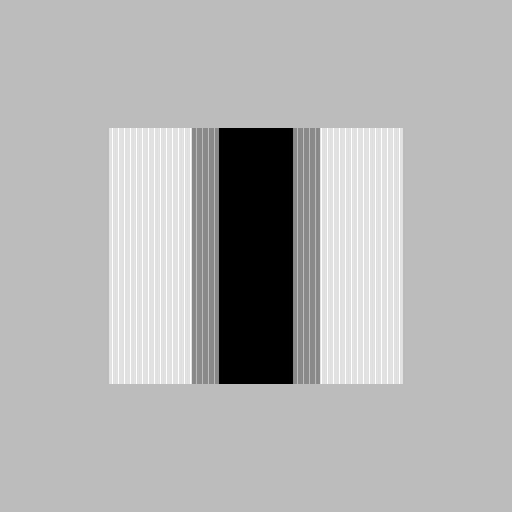
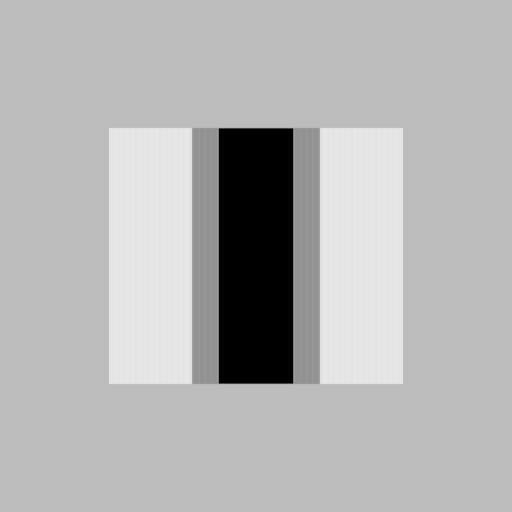
Add energy-conserving bilinear photon splatting

Changed region(s): [[0.5625, 0.25, 0.7812, 0.75], [0.2188, 0.25, 0.4375, 0.75]]

diff --git a/src/caustics.rs b/src/caustics.rs
@@ -5,6 +5,7 @@ use crate::{
     framebuffer::Framebuffer,
     ray::Ray,
     scene::{Scene, take_photon},
+    utils::bilinear_weights,
 };
 use nalgebra::Vector3;
 use std::error::Error;
@@ -15,13 +16,10 @@ const GROUND_MAX: f64 = 2.0;
 const LIGHT_HEIGHT: f64 = 3.0;
 const UNBLOCKED_BRIGHTNESS: f64 = 0.5;
 
-/// 将地面世界坐标映射到输出图片；x、y 均采用 [-2, 2) 米的半开区间。
-/// 世界 +x 朝图片右侧，+y 朝图片上方；z 只检查是否有限。
-pub fn ground_to_pixel(
-    position: Vector3<f64>,
-    width: usize,
-    height: usize,
-) -> Option<(usize, usize)> {
+/// 将地面世界坐标映射为连续像素坐标；世界 x、y 采用 [-2, 2) 米的半开区间。
+/// 世界 +x 朝图片右侧，+y 朝图片上方；整数输出坐标是像素中心，边界在 -0.5。
+/// 保留小数位置供双线性分配使用；z 只检查是否有限。
+pub fn ground_to_pixel(position: Vector3<f64>, width: usize, height: usize) -> Option<(f64, f64)> {
     if width == 0
         || height == 0
         || !position.iter().all(|v| v.is_finite())
@@ -34,10 +32,9 @@ pub fn ground_to_pixel(
     let span = GROUND_MAX - GROUND_MIN;
     let u = (position.x - GROUND_MIN) / span;
     let v = (position.y - GROUND_MIN) / span;
-    // 输入已在区域内；min 仅防止贴近上边界时浮点舍入到 width/height。
-    let x = ((u * width as f64).floor() as usize).min(width - 1);
-    let y_from_bottom = ((v * height as f64).floor() as usize).min(height - 1);
-    Some((x, height - 1 - y_from_bottom))
+    let x = u * width as f64 - 0.5;
+    let y = (1.0 - v) * height as f64 - 0.5;
+    Some((x, y))
 }
 
 /// Day 2 的直接命中灰度图；未先命中地面的光线被遮挡，不继续追踪。
@@ -122,10 +119,17 @@ fn render_landing_points(
             let Some(position) = landing_point(ray) else {
                 continue;
             };
-            if let Some((x, y)) = ground_to_pixel(position, scene.width, scene.height)
-                && !framebuffer.accumulate(x, y, contribution)
-            {
-                return Err("地面像素累积失败".into());
+            if let Some((x, y)) = ground_to_pixel(position, scene.width, scene.height) {
+                let neighbors = bilinear_weights(x, y, scene.width, scene.height)
+                    .ok_or("双线性权重计算失败")?;
+                // 同一条光子的 XYZ 分成四份，权重和为 1；在 sRGB 编码之前累积。
+                for (pixel_x, pixel_y, weight) in neighbors {
+                    if weight > 0.0
+                        && !framebuffer.accumulate(pixel_x, pixel_y, contribution * weight)
+                    {
+                        return Err("地面像素累积失败".into());
+                    }
+                }
             }
         }
     }
@@ -140,13 +144,23 @@ mod tests {
     #[test]
     fn world_coordinates_map_to_non_square_image_with_y_flipped() {
         for (position, expected) in [
-            (Vector3::new(-2.0, -2.0, 0.0), (0, 1)),
-            (Vector3::new(-1.5, 1.5, 0.0), (0, 0)),
-            (Vector3::new(1.5, -1.5, 0.0), (2, 1)),
-            (Vector3::new(1.99, 1.99, 0.0), (2, 0)),
+            (Vector3::new(-2.0, -2.0, 0.0), (-0.5, 1.5)),
+            (Vector3::new(-1.5, 1.5, 0.0), (-0.125, -0.25)),
+            (Vector3::new(1.5, -1.5, 0.0), (2.125, 1.25)),
+            (Vector3::new(1.99, 1.99, 0.0), (2.4925, -0.495)),
         ] {
-            assert_eq!(ground_to_pixel(position, 3, 2), Some(expected));
+            let actual = ground_to_pixel(position, 3, 2).unwrap();
+            assert!((actual.0 - expected.0).abs() < 1e-12);
+            assert!((actual.1 - expected.1).abs() < 1e-12);
         }
+        assert_eq!(
+            ground_to_pixel(Vector3::new(-1.5, 1.0, 0.0), 4, 2),
+            Some((0.0, 0.0))
+        );
+        assert_eq!(
+            ground_to_pixel(Vector3::new(1.5, -1.0, 0.0), 4, 2),
+            Some((3.0, 1.0))
+        );
     }
 
     #[test]
@@ -176,7 +190,7 @@ mod tests {
     }
 
     #[test]
-    fn prism_shadow_matches_footprint_regardless_of_object_order() {
+    fn prism_shadow_has_bilinear_edges_and_preserves_flux_in_either_object_order() {
         for ground_first in [false, true] {
             let mut scene = Scene::new(16, 8);
             if !ground_first {
@@ -187,17 +201,53 @@ mod tests {
                 scene.add(Box::new(Prism::new().unwrap()));
             }
             let framebuffer = render_ground_hits(&scene, ground_id, 2).unwrap();
-            for y in 0..8 {
-                for x in 0..16 {
-                    // 固定三棱镜的俯视投影为 x∈[-0.5,0.5]、y∈[-1,1]。
-                    let expected = if (6..10).contains(&x) && (2..6).contains(&y) {
-                        0.0
-                    } else {
-                        0.5
-                    };
-                    assert!((framebuffer.get(x, y).unwrap().y - expected).abs() < 1e-12);
-                }
+            // 双线性分配让投影边缘的两个像素共享能量；深处仍黑，远处仍是 0.5。
+            for (x, y, expected) in [
+                (7, 3, 0.0),
+                (0, 0, 0.5),
+                (6, 3, 0.0625),
+                (5, 3, 0.4375),
+                (6, 2, 0.1171875),
+            ] {
+                assert!((framebuffer.get(x, y).unwrap().y - expected).abs() < 1e-12);
             }
+            let total_y: f64 = framebuffer.pixels.iter().map(|pixel| pixel.y).sum();
+            // 128 个像素中，几何投影遮挡等效的 16 个像素；过滤不改变总量。
+            assert!((total_y - 56.0).abs() < 1e-12);
+        }
+    }
+
+    #[test]
+    fn bilinear_landing_distributes_expected_xyz_and_preserves_total_energy() {
+        let mut scene = Scene::new(4, 3);
+        let ground_id = scene.add(Box::new(Ground::new(0.0).unwrap()));
+        // 此世界位置映射到连续像素 (1.25, 0.75)，让所有样本都落在这里。
+        let position = Vector3::new(-0.25, 1.0 / 3.0, 0.0);
+        let framebuffer = render_landing_points(&scene, ground_id, 1, |_| Some(position)).unwrap();
+        for (x, y, expected_y) in [(1, 0, 1.125), (2, 0, 0.375), (1, 1, 3.375), (2, 1, 1.125)] {
+            assert!((framebuffer.get(x, y).unwrap().y - expected_y).abs() < 1e-12);
+        }
+        let white_xyz = Vector3::new(0.3127 / 0.3290, 1.0, (1.0 - 0.3127 - 0.3290) / 0.3290);
+        let total = framebuffer
+            .pixels
+            .iter()
+            .fold(Vector3::zeros(), |sum, pixel| sum + pixel);
+        assert!((total - white_xyz * 6.0).norm() < 1e-12);
+    }
+
+    #[test]
+    fn bilinear_landing_keeps_all_energy_at_receiver_edges_and_for_one_pixel_images() {
+        for (width, height) in [(4, 3), (1, 4), (4, 1), (1, 1)] {
+            let mut scene = Scene::new(width, height);
+            let ground_id = scene.add(Box::new(Ground::new(0.0).unwrap()));
+            let framebuffer = render_landing_points(&scene, ground_id, 2, |_| {
+                Some(Vector3::new(-2.0, -2.0, 0.0))
+            })
+            .unwrap();
+            let total_y: f64 = framebuffer.pixels.iter().map(|pixel| pixel.y).sum();
+            let expected = 0.5 * (width * height) as f64;
+            assert!((total_y - expected).abs() < 1e-12);
+            assert!((framebuffer.get(0, height - 1).unwrap().y - expected).abs() < 1e-12);
         }
     }
 

diff --git a/src/utils.rs b/src/utils.rs
@@ -1,0 +1,101 @@
+//! 双线性插值的四邻域权重；光子落点使用同样的权重向四个像素分配能量。
+
+/// 输入连续像素坐标，返回 (像素 x, 像素 y, 权重)，顺序为左上、右上、左下、右下。
+/// 整数坐标表示像素中心；图片覆盖 [-0.5, width-0.5] × [-0.5, height-0.5]。
+/// 边缘半个像素内夹紧到最近的像素中心，保证四个权重之和仍为 1。
+pub fn bilinear_weights(
+    x: f64,
+    y: f64,
+    width: usize,
+    height: usize,
+) -> Option<[(usize, usize, f64); 4]> {
+    if width == 0
+        || height == 0
+        || !x.is_finite()
+        || !y.is_finite()
+        || x < -0.5
+        || x > width as f64 - 0.5
+        || y < -0.5
+        || y > height as f64 - 0.5
+    {
+        return None;
+    }
+
+    // 区域内的边缘落点仍应保留全部能量，不向图片之外分配权重。
+    let x = x.clamp(0.0, (width - 1) as f64);
+    let y = y.clamp(0.0, (height - 1) as f64);
+    let x0 = (x.floor() as usize).min(width - 1);
+    let y0 = (y.floor() as usize).min(height - 1);
+    let x1 = x0.saturating_add(1).min(width - 1);
+    let y1 = y0.saturating_add(1).min(height - 1);
+    let dx = (x - x0 as f64).clamp(0.0, 1.0);
+    let dy = (y - y0 as f64).clamp(0.0, 1.0);
+
+    // 先在 x 方向分成 (1-dx)、dx，再在 y 方向分成 (1-dy)、dy。
+    Some([
+        (x0, y0, (1.0 - dx) * (1.0 - dy)),
+        (x1, y0, dx * (1.0 - dy)),
+        (x0, y1, (1.0 - dx) * dy),
+        (x1, y1, dx * dy),
+    ])
+}
+
+#[cfg(test)]
+mod tests {
+    use super::*;
+
+    #[test]
+    fn fractional_position_has_expected_four_weights() {
+        assert_eq!(
+            bilinear_weights(1.25, 0.75, 4, 3),
+            Some([
+                (1, 0, 0.1875),
+                (2, 0, 0.0625),
+                (1, 1, 0.5625),
+                (2, 1, 0.1875)
+            ])
+        );
+    }
+
+    #[test]
+    fn pixel_center_contributes_only_to_that_pixel() {
+        let samples = bilinear_weights(1.0, 1.0, 4, 3).unwrap();
+        assert_eq!(samples[0], (1, 1, 1.0));
+        assert!(samples[1..].iter().all(|&(_, _, weight)| weight == 0.0));
+    }
+
+    #[test]
+    fn edge_and_single_pixel_weights_stay_in_bounds_and_sum_to_one() {
+        for (width, height) in [(4, 3), (1, 4), (4, 1), (1, 1)] {
+            for x in [-0.5, -0.25, 0.0, (width - 1) as f64, width as f64 - 0.5] {
+                for y in [-0.5, -0.25, 0.0, (height - 1) as f64, height as f64 - 0.5] {
+                    let samples = bilinear_weights(x, y, width, height).unwrap();
+                    assert!(
+                        samples
+                            .iter()
+                            .all(|&(x, y, w)| x < width && y < height && w.is_finite() && w >= 0.0)
+                    );
+                    let total: f64 = samples.iter().map(|&(_, _, weight)| weight).sum();
+                    assert!((total - 1.0).abs() < 1e-12);
+                }
+            }
+        }
+        let samples = bilinear_weights(-0.25, 1.25, 4, 3).unwrap();
+        assert!(
+            samples
+                .iter()
+                .filter(|&&(_, _, w)| w > 0.0)
+                .all(|&(x, _, _)| x == 0)
+        );
+    }
+
+    #[test]
+    fn invalid_coordinates_and_empty_dimensions_are_rejected() {
+        for value in [f64::NAN, f64::INFINITY, f64::NEG_INFINITY, -0.5001, 3.5001] {
+            assert!(bilinear_weights(value, 0.0, 4, 4).is_none());
+            assert!(bilinear_weights(0.0, value, 4, 4).is_none());
+        }
+        assert!(bilinear_weights(0.0, 0.0, 0, 4).is_none());
+        assert!(bilinear_weights(0.0, 0.0, 4, 0).is_none());
+    }
+}

diff --git a/src/lib.rs b/src/lib.rs
@@ -10,3 +10,4 @@ pub mod ray;
 pub mod render;
 pub mod scene;
 pub mod triangle;
+pub mod utils;

diff --git a/ROADMAP.md b/ROADMAP.md
@@ -138,7 +138,8 @@ n(\lambda)=A+\frac{B}{\lambda_{\mu m}^{2}}
 
 - [ ] 增加参数：图片宽高、空间光线数、波长采样数、折射率模式、曝光、随机种子、输出路径。
 - [ ] 输出 `output/constant_ior.png` 与 `output/dispersion.png`，用相同场景和相同曝光对比。
-- [ ] 为地面累积增加双线性 splat 或简单规范化核过滤，减轻离散噪点。
+- [x] 为地面累积增加双线性 splat 或简单规范化核过滤，减轻离散噪点。
+- **双线性子项已实现：** 按用户要求先接入此项。`utils::bilinear_weights` 计算四邻域归一化权重；地面映射保留连续像素坐标、使用像素中心约定，累积时分配四份线性 XYZ。接收区域内的边缘半像素夹紧，避免丢能量；84 项测试覆盖四点权重、非正方形映射、边界与 1×1 等尺寸、XYZ 守恒和采样数量归一化。其余 Day 6 项目仍待实现。
 - [ ] 记录发射数、成功落地数、全反射/丢弃数、渲染耗时；按需增加简单性能优化。
 - **验收：** 增大样本数量图像更稳定，平均亮度不会随样本数直接倍增。
 
